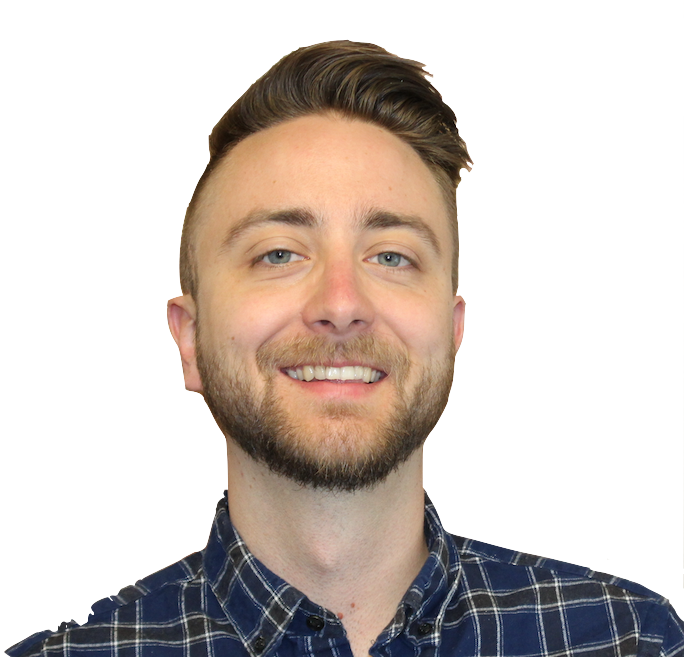
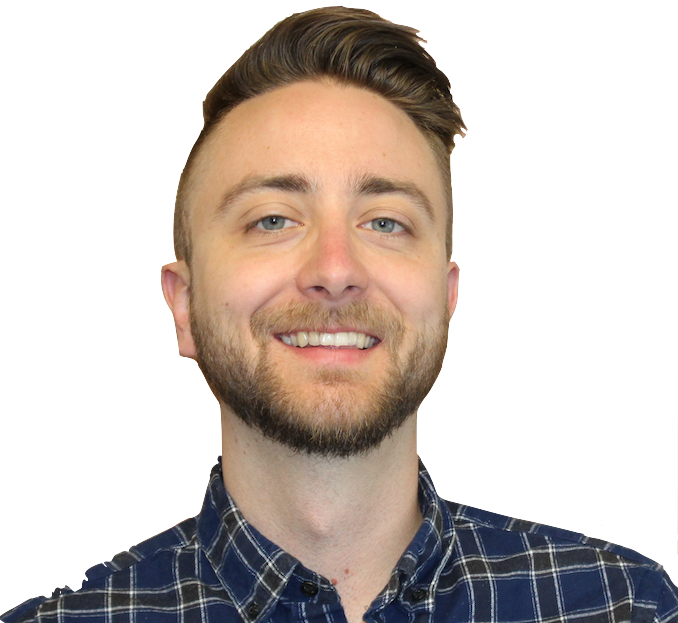
Update photo

Changed region(s): [[0.0, 0.0, 1.0, 1.0]]

diff --git a/about.md b/about.md
@@ -3,7 +3,7 @@ layout: page
 title: About
 permalink: /about/
 ---
-<img align="left" src="{{ site.avatar }}" height=200px width=200px>
+<img align="left" src="{{ site.avatar }}" height=180px width=180px>
 
 My name is Matt. I'm a data scientist passionate about data-driven decisions and sustainability. I work as a data scientist at [Aquicore](https://www.aquicore.com), where I help optimize energy usage for buildings to cut costs and carbon emissions. I am 2019 alum of the [Clean Energy Leadership Institute](https://cleanenergyleaders.org) fellowship, where I worked to bring a data science perspective to discussions on how to decarbonize our economy and mitigate the worst effects of climate change.
 
